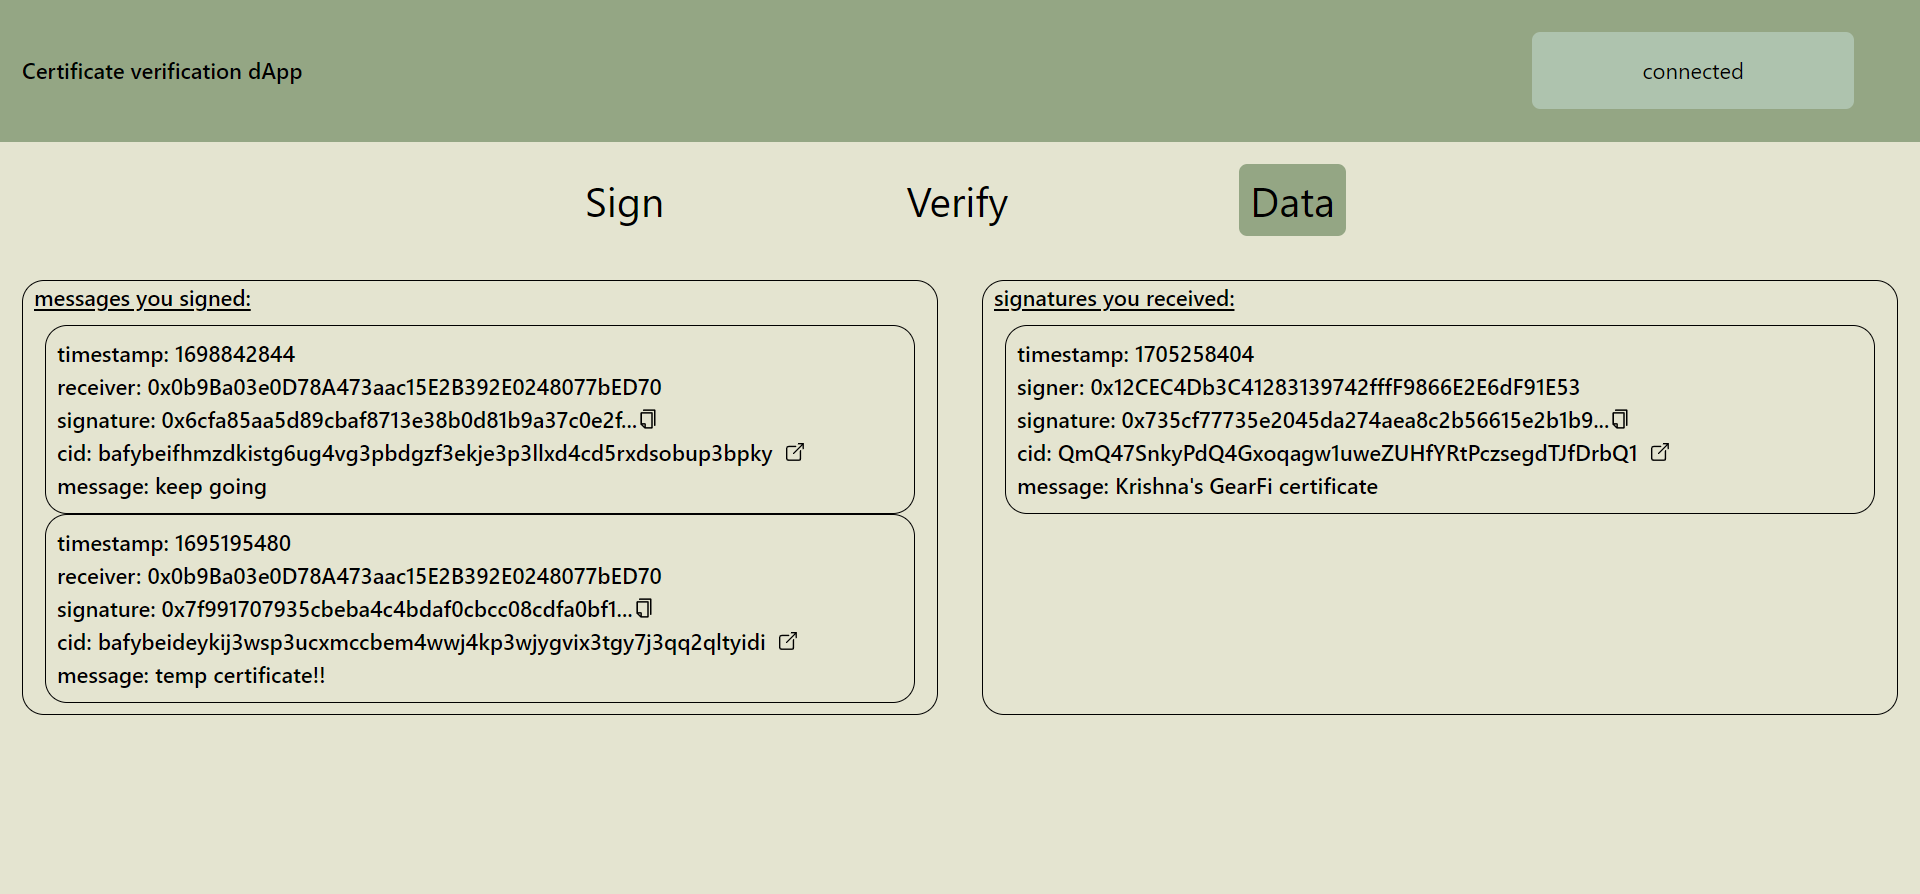
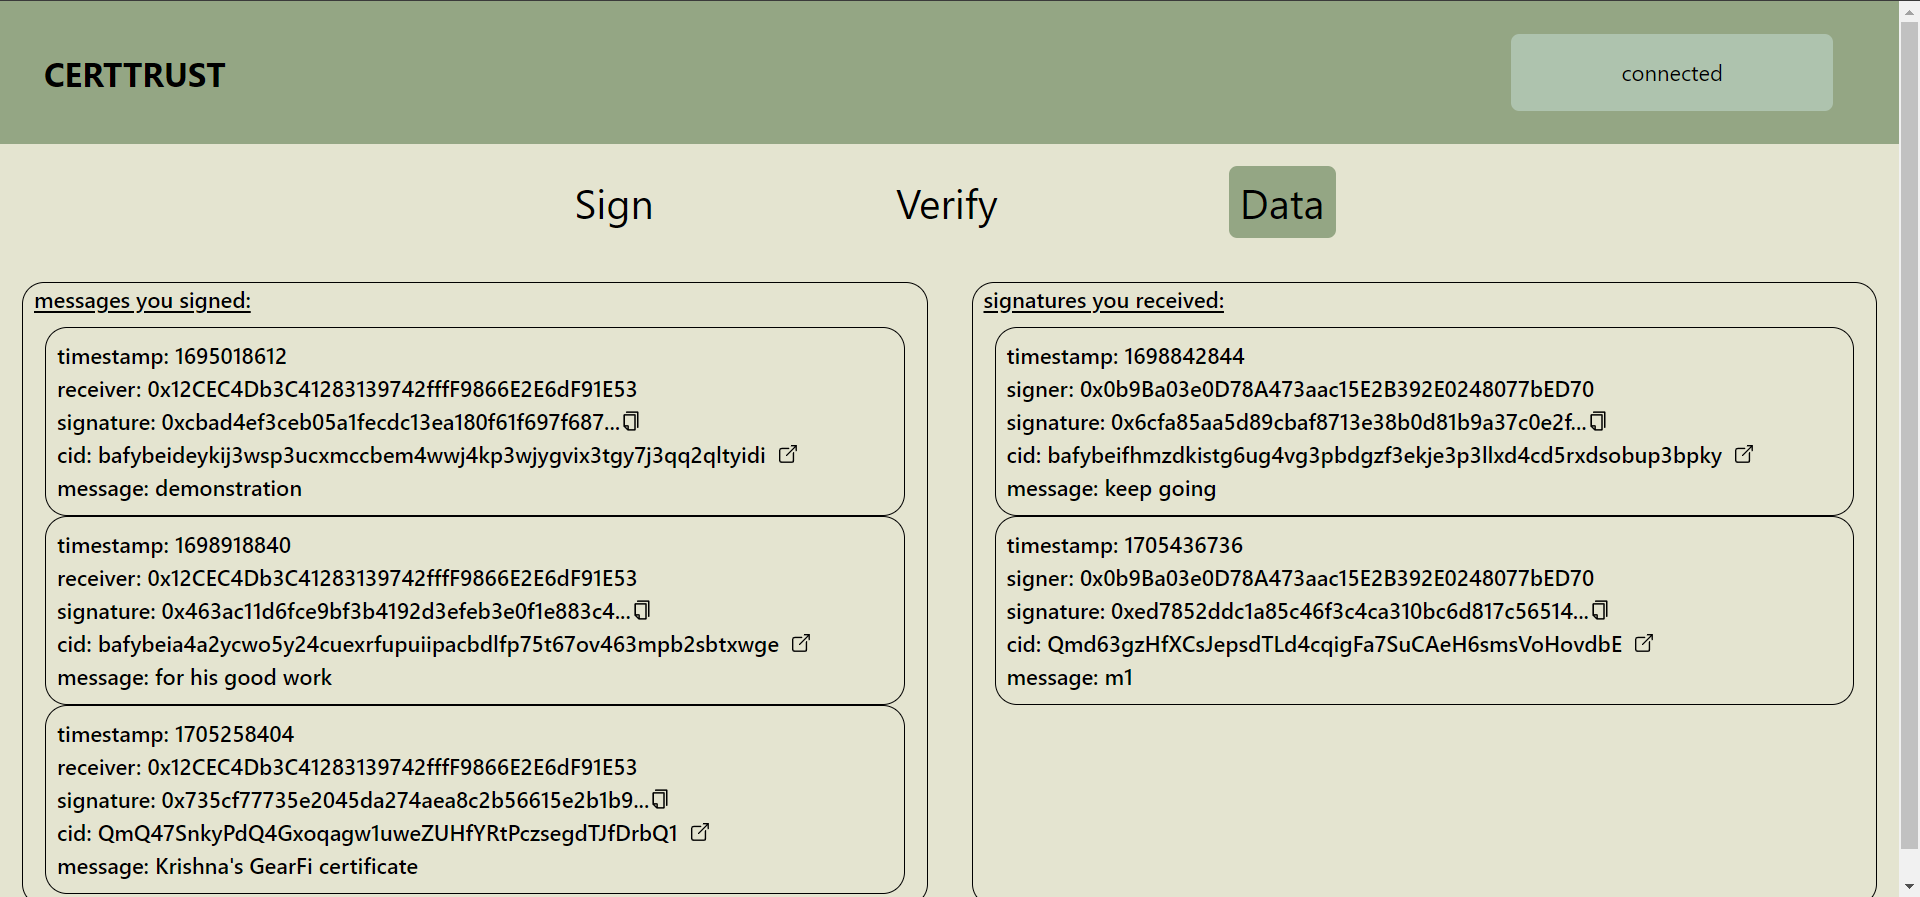
toast on promises

diff --git a/client/src/App.jsx b/client/src/App.jsx
@@ -3,6 +3,7 @@ import { contractAddress, contractABI } from './constants'
 import { ethers } from 'ethers'
 import { AiOutlineCopy } from 'react-icons/ai'
 import { IoOpenOutline } from 'react-icons/io5'
+
 import axios from 'axios'
 import FormData from 'form-data'
 
@@ -88,7 +89,7 @@ function App() {
         console.log('new pinata ipfs added')
         toast('Uploading...please wait', {
             position: "top-right",
-            autoClose: 5000,
+            autoClose: 7000,
             hideProgressBar: false,
             closeOnClick: true,
             pauseOnHover: true,
@@ -172,6 +173,17 @@ function App() {
 
         console.log('sendign transactoin...')
 
+        toast.info('Transaction submitted to the blockchain!', {
+            position: "top-right",
+            autoClose: 5000,
+            hideProgressBar: false,
+            closeOnClick: true,
+            pauseOnHover: true,
+            draggable: true,
+            progress: undefined,
+            theme: "light",
+            });
+
         const saved = await state.contract.storeSignature(
             account,
             receiver,
@@ -180,29 +192,24 @@ function App() {
             message
         )
         await saved.wait()
+        toast.success('data successfully stored in blockchain! Check the data section', {
+            position: "top-right",
+            autoClose: 5000,
+            hideProgressBar: false,
+            closeOnClick: true,
+            pauseOnHover: true,
+            draggable: true,
+            progress: undefined,
+            theme: "light",
+            });
         console.log('saveData ', saved)
     }
-
-    // async function setSenderData() {
-    //     if (state.contract) {
-    //       const senderTxIds = await state.contract.retrieveSenderSignaturesTxIds(account);
-    //       console.log('ids are', senderTxIds);
-
-    //       const transactions = await Promise.all(senderTxIds.map(async (id) => {
-    //         console.log('in🙃🙃');
-    //         const transaction = await state.contract.getTransactionById(id);
-    //         return transaction;
-    //       }));
-
-    //       setSignedTxData(transactions);
-    //     }
-    //   }
 
     async function setSenderData() {
         console.log('setsenderData is called...!!')
         console.log('account: ', account)
         if (state.contract) {
-            console.log('contracttt is: ', state.contract)
+            console.log('contract is: ', state.contract)
             const senderTxIds =
                 await state.contract.retrieveSenderSignaturesTxIds(account)
             console.log(senderTxIds)
@@ -371,7 +378,7 @@ function App() {
                                     <input
                                         type='text'
                                         className='border-black border m-2 p-2 rounded-md'
-                                        placeholder='receiver address'
+                                        placeholder='receiver address(0xed7852...)'
                                         id='receiver'
                                     />
                                 </div>
@@ -379,7 +386,7 @@ function App() {
                                     <input
                                         type='text'
                                         className='border-black border m-2 p-2 rounded-md'
-                                        placeholder='message'
+                                        placeholder='certificate data'
                                         id='message'
                                     />
                                 </div>
